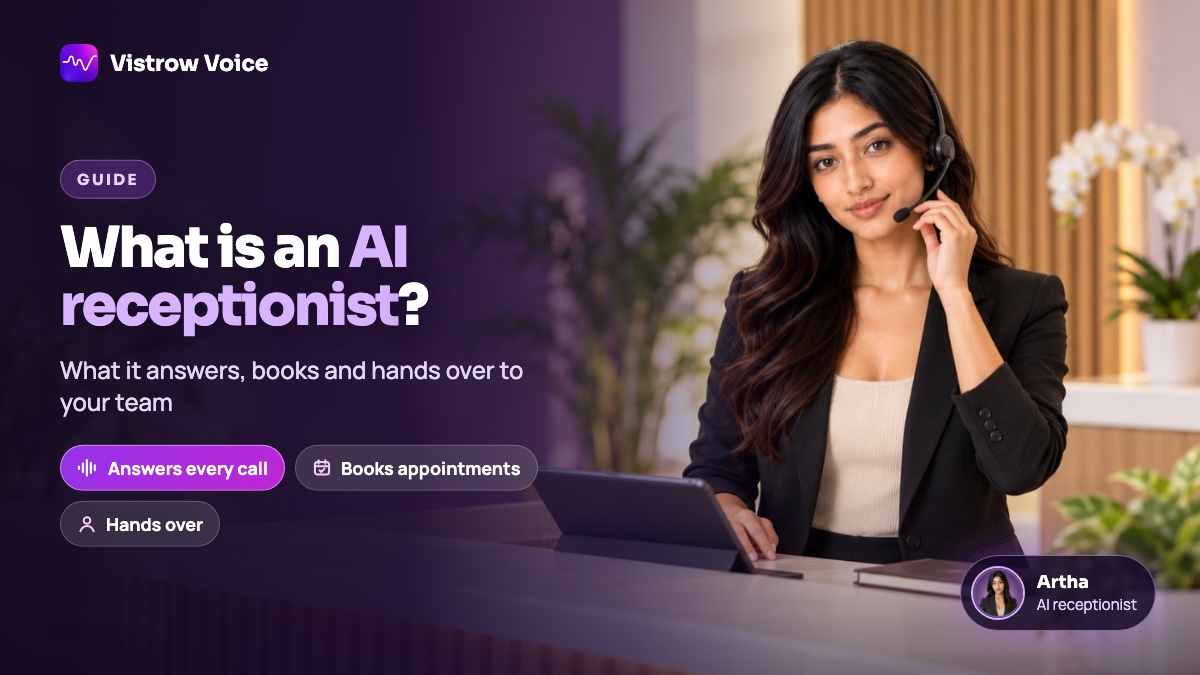
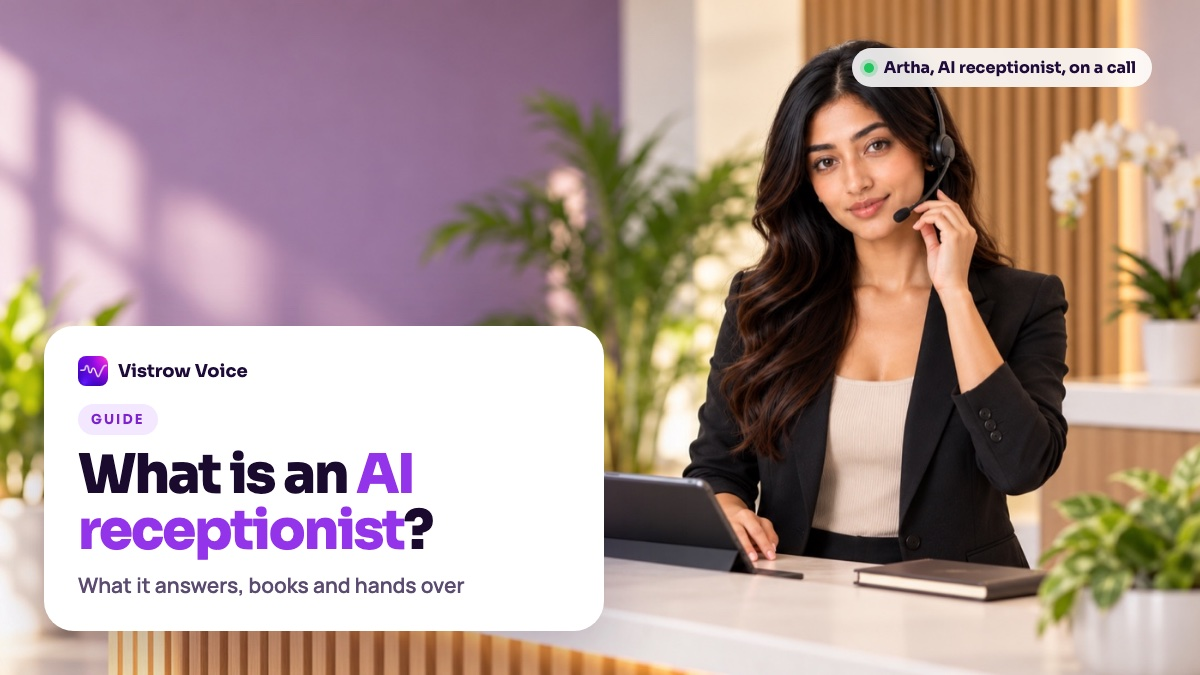
Blog covers 3-6 redesigned as distinct layouts (light editorial, before/after split, checklist board, phone mock-up); guide lists 7 layouts, no two in a row
Owner 21 Oct: the first set all looked like one template.

diff --git a/web-demo/scripts/blog-covers/04-ai-ivr-replacing-phone-menus-with-conversation.html b/web-demo/scripts/blog-covers/04-ai-ivr-replacing-phone-menus-with-conversation.html
@@ -1,3 +1,18 @@
-<!doctype html><html lang="en"><head><meta charset="utf-8"><title>Cover: AI IVR</title><link rel="stylesheet" href="cover.css"><style>.person{background-image:url(people/caller-man-phone.jpg)} .text{width:470px} .c1{left:530px;top:150px;width:320px;display:flex;align-items:center;gap:14px;opacity:.9} .c1 .x{position:absolute;left:18px;top:12px;width:48px;height:48px} .c1 p{font-size:17px;color:#c9b8e2} .c1 b{display:block;font-family:Sora;font-size:20px;color:#fff;text-decoration:line-through;text-decoration-color:rgba(240,171,252,.85);text-decoration-thickness:2px} .arrow{position:absolute;z-index:4;left:672px;top:250px;font-family:Sora;font-size:40px;color:#d8b4fe} .c2{left:530px;top:318px;width:390px;display:flex;align-items:center;gap:14px} .c2 img{width:58px;height:58px;border-radius:50%;border:2px solid #f5d0fe;object-fit:cover} .c2 b{display:block;font-family:Sora;font-size:22px;white-space:nowrap} .c2 span{font-size:16px;color:#f3e8ff} .c3{left:530px;top:452px;width:330px;display:flex;align-items:center;gap:12px;font-weight:700;font-size:18px}</style></head><body>
-<div class="person"></div><div class="brand"><img src="../../src/assets/vistrow-mark.png" alt=""> Vistrow Voice</div>
-<div class="text"><span class="pill">Guide</span><h1>AI IVR: from <em>“press 1”</em> to <em>“how can I help?”</em></h1><p class="sub">Replace the phone menu with a conversation</p></div><div class="card c1"><svg width="40" height="40" viewBox="0 0 46 46" fill="#c9b8e2"><circle cx="9" cy="8" r="5"/><circle cx="23" cy="8" r="5"/><circle cx="37" cy="8" r="5"/><circle cx="9" cy="23" r="5"/><circle cx="23" cy="23" r="5"/><circle cx="37" cy="23" r="5"/><circle cx="9" cy="38" r="5"/><circle cx="23" cy="38" r="5"/><circle cx="37" cy="38" r="5"/></svg><div><b>Press 1, press 2...</b><p>Old phone menu</p></div></div><div class="arrow">↓</div><div class="card hl c2"><img src="people/artha-avatar.webp" alt=""><div><b>“How can I help you?”</b><span>Artha, AI IVR</span></div></div><div class="card c3"><svg width="20" height="20" viewBox="0 0 24 24" fill="none" stroke="#f5d0fe" stroke-width="2.4" stroke-linecap="round"><rect x="3.5" y="5" width="17" height="15" rx="3"/><path d="M8 3v4M16 3v4M3.5 10h17M9 15l2 2 4-4"/></svg> Answered, booked or transferred</div></body></html>
+<!doctype html><html lang="en"><head><meta charset="utf-8"><title>Cover 4 split before after</title><style>@font-face{font-family:Sora;src:url(../../public/fonts/sora-latin.woff2) format('woff2');font-weight:100 900}
+@font-face{font-family:Manrope;src:url(../../public/fonts/manrope-latin.woff2) format('woff2');font-weight:200 800}
+*{box-sizing:border-box;margin:0;padding:0} html,body{width:1200px;height:675px;overflow:hidden} body{font-family:Manrope,sans-serif;position:relative}
+.left{position:absolute;left:0;top:0;width:600px;height:675px;background:url(people/caller-frustrated-menu.jpg) center 30%/cover;filter:grayscale(1) brightness(.75) contrast(1.05)}
+.right{position:absolute;right:0;top:0;width:600px;height:675px;background:radial-gradient(520px 420px at 60% 30%,rgba(168,85,247,.55),transparent 65%),linear-gradient(135deg,#1e0b3a,#3b0f6b)}
+.artha{position:absolute;right:20px;bottom:0;width:460px;height:610px;background:url(people/artha-headset.jpg) center top/cover;-webkit-mask-image:radial-gradient(ellipse 62% 78% at 50% 42%,#000 58%,transparent 100%)}
+.top{position:absolute;left:0;right:0;top:0;height:170px;background:linear-gradient(180deg,rgba(10,4,18,.85),transparent);z-index:2}
+.brand{position:absolute;z-index:3;top:34px;left:44px;display:flex;align-items:center;gap:10px;font-family:Sora;font-weight:700;font-size:19px;color:#fff} .brand img{width:32px;height:32px;border-radius:8px}
+h1{position:absolute;z-index:3;top:28px;left:0;right:0;text-align:center;font-family:Sora;font-weight:800;font-size:40px;letter-spacing:-.03em;color:#fff}
+h1 em{font-style:normal;color:#d8b4fe}
+.label{position:absolute;z-index:3;top:96px;font-family:Sora;font-weight:800;font-size:14px;letter-spacing:.18em;padding:7px 14px;border-radius:999px}
+.l1{left:44px;color:#e5e7eb;background:rgba(55,65,81,.85)} .l2{right:44px;color:#3b0764;background:#f5d0fe}
+.b1{position:absolute;z-index:3;left:44px;bottom:48px;width:420px;background:rgba(17,24,39,.88);border:1px solid rgba(255,255,255,.15);border-radius:22px;padding:18px 20px;display:flex;gap:16px;align-items:center;color:#d1d5db}
+.b1 b{display:block;font-family:Sora;font-size:21px;color:#fff;margin-bottom:4px} .b1 span{font-size:16px}
+.b2{position:absolute;z-index:3;left:640px;bottom:60px;width:300px;background:#fff;border-radius:22px 22px 22px 6px;padding:18px 20px;color:#1a0b2e;box-shadow:0 20px 60px rgba(0,0,0,.35)}
+.b2 b{display:block;font-family:Sora;font-size:24px;line-height:1.15} .b2 span{display:block;margin-top:6px;font-size:15px;color:#7e22ce;font-weight:700}
+.vs{position:absolute;z-index:4;left:570px;top:316px;width:60px;height:60px;border-radius:50%;background:linear-gradient(135deg,#9333ea,#c026d3);display:grid;place-items:center;color:#fff;font-family:Sora;font-size:28px;box-shadow:0 0 0 6px rgba(255,255,255,.15)}
+</style></head><body><div class="left"></div><div class="right"></div><div class="artha"></div><div class="top"></div><div class="brand"><img src="../../src/assets/vistrow-mark.png" alt=""> Vistrow Voice</div><h1>AI IVR: <em>from menu to conversation</em></h1><span class="label l1">BEFORE</span><span class="label l2">AFTER</span><div class="b1"><svg width="34" height="34" viewBox="0 0 46 46" fill="#9ca3af"><circle cx="9" cy="8" r="5"/><circle cx="23" cy="8" r="5"/><circle cx="37" cy="8" r="5"/><circle cx="9" cy="23" r="5"/><circle cx="23" cy="23" r="5"/><circle cx="37" cy="23" r="5"/><circle cx="9" cy="38" r="5"/><circle cx="23" cy="38" r="5"/><circle cx="37" cy="38" r="5"/></svg><div><b>"Press 1 for sales, press 2..."</b><span>Callers wait, guess and hang up</span></div></div><div class="vs">→</div><div class="b2"><b>"Hi, how can I help you today?"</b><span>Artha answers in plain speech</span></div></body></html>

diff --git a/web-demo/scripts/blog-covers/05-ai-voice-agent-platform-buyers-checklist.html b/web-demo/scripts/blog-covers/05-ai-voice-agent-platform-buyers-checklist.html
@@ -1,3 +1,16 @@
-<!doctype html><html lang="en"><head><meta charset="utf-8"><title>Cover: AI voice agent platform checklist</title><link rel="stylesheet" href="cover.css"><style>.scene{background-image:url(people/colleagues-review-scene.jpg);background-size:135%;background-position:78% 40%} .chips{max-width:470px}</style></head><body>
-<div class="scene"></div><div class="shade"></div><div class="brand"><img src="../../src/assets/vistrow-mark.png" alt=""> Vistrow Voice</div>
-<div class="text"><span class="pill">Checklist</span><h1>AI voice agent <em>platform checklist</em></h1><p class="sub">What to test before you buy</p><div class="chips"><span class="chip"><svg width="20" height="20" viewBox="0 0 24 24" fill="none" stroke="#f5d0fe" stroke-width="3" stroke-linecap="round" stroke-linejoin="round"><path d="M5 12.5l4.5 4.5L19 7.5"/></svg> Languages</span><span class="chip"><svg width="20" height="20" viewBox="0 0 24 24" fill="none" stroke="#f5d0fe" stroke-width="3" stroke-linecap="round" stroke-linejoin="round"><path d="M5 12.5l4.5 4.5L19 7.5"/></svg> Speed on real calls</span><span class="chip"><svg width="20" height="20" viewBox="0 0 24 24" fill="none" stroke="#f5d0fe" stroke-width="3" stroke-linecap="round" stroke-linejoin="round"><path d="M5 12.5l4.5 4.5L19 7.5"/></svg> Approved answers</span><span class="chip"><svg width="20" height="20" viewBox="0 0 24 24" fill="none" stroke="#f5d0fe" stroke-width="3" stroke-linecap="round" stroke-linejoin="round"><path d="M5 12.5l4.5 4.5L19 7.5"/></svg> Handoffs</span><span class="chip hl"><svg width="20" height="20" viewBox="0 0 24 24" fill="none" stroke="#f5d0fe" stroke-width="3" stroke-linecap="round" stroke-linejoin="round"><path d="M5 12.5l4.5 4.5L19 7.5"/></svg> Cost and controls</span></div></div></body></html>
+<!doctype html><html lang="en"><head><meta charset="utf-8"><title>Cover 5 checklist board</title><style>@font-face{font-family:Sora;src:url(../../public/fonts/sora-latin.woff2) format('woff2');font-weight:100 900}
+@font-face{font-family:Manrope;src:url(../../public/fonts/manrope-latin.woff2) format('woff2');font-weight:200 800}
+*{box-sizing:border-box;margin:0;padding:0} html,body{width:1200px;height:675px;overflow:hidden} body{font-family:Manrope,sans-serif;position:relative}
+body{background:linear-gradient(135deg,#faf5ff 0%,#f3e8ff 60%,#ede9fe 100%)}
+.grid{position:absolute;inset:0;background-image:linear-gradient(rgba(147,51,234,.07) 1px,transparent 1px),linear-gradient(90deg,rgba(147,51,234,.07) 1px,transparent 1px);background-size:40px 40px}
+.brand{position:absolute;top:44px;left:60px;display:flex;align-items:center;gap:10px;font-family:Sora;font-weight:700;font-size:20px;color:#1e0b3a} .brand img{width:34px;height:34px;border-radius:9px}
+.text{position:absolute;left:60px;top:150px;width:470px}
+.pill{display:inline-block;font-family:Sora;font-weight:700;font-size:14px;letter-spacing:.16em;color:#fff;background:#9333ea;padding:8px 14px;border-radius:999px}
+h1{font-family:Sora;font-weight:800;font-size:58px;line-height:1.03;letter-spacing:-.035em;color:#1a0b2e;margin-top:18px} h1 em{font-style:normal;color:#9333ea}
+p{margin-top:16px;font-size:23px;color:#5b4b70;font-weight:600}
+.board{position:absolute;left:600px;top:120px;width:520px;background:#fff;border-radius:28px;padding:34px 34px 30px;box-shadow:0 30px 70px rgba(88,28,135,.22);transform:rotate(-2deg)}
+.board h2{font-family:Sora;font-size:16px;letter-spacing:.16em;color:#7e22ce} ul{list-style:none;margin-top:16px}
+li{display:flex;align-items:center;gap:14px;font-size:22px;font-weight:700;color:#1a0b2e;padding:12px 0;border-bottom:1px dashed #e9d5ff} li:last-child{border:0}
+.t{width:32px;height:32px;border-radius:50%;background:linear-gradient(135deg,#9333ea,#c026d3);display:grid;place-items:center;flex:none}
+.face{position:absolute;right:46px;top:34px;width:150px;height:150px;border-radius:50%;background:url(people/colleagues-review-scene.jpg) 64% 22%/360% no-repeat;border:6px solid #fff;box-shadow:0 0 0 4px #c084fc,0 20px 40px rgba(88,28,135,.25)}
+</style></head><body><div class="grid"></div><div class="brand"><img src="../../src/assets/vistrow-mark.png" alt=""> Vistrow Voice</div><div class="text"><span class="pill">CHECKLIST</span><h1>AI voice agent <em>platform checklist</em></h1><p>What to test before you buy</p></div><div class="board"><h2>BEFORE YOU SIGN</h2><ul><li><span class="t"><svg width="18" height="18" viewBox="0 0 24 24" fill="none" stroke="#fff" stroke-width="3.2" stroke-linecap="round" stroke-linejoin="round"><path d="M5 12.5l4.5 4.5L19 7.5"/></svg></span>Languages your callers speak</li><li><span class="t"><svg width="18" height="18" viewBox="0 0 24 24" fill="none" stroke="#fff" stroke-width="3.2" stroke-linecap="round" stroke-linejoin="round"><path d="M5 12.5l4.5 4.5L19 7.5"/></svg></span>Speed on real phone calls</li><li><span class="t"><svg width="18" height="18" viewBox="0 0 24 24" fill="none" stroke="#fff" stroke-width="3.2" stroke-linecap="round" stroke-linejoin="round"><path d="M5 12.5l4.5 4.5L19 7.5"/></svg></span>Answers from approved facts</li><li><span class="t"><svg width="18" height="18" viewBox="0 0 24 24" fill="none" stroke="#fff" stroke-width="3.2" stroke-linecap="round" stroke-linejoin="round"><path d="M5 12.5l4.5 4.5L19 7.5"/></svg></span>Clean handoffs to your team</li><li><span class="t"><svg width="18" height="18" viewBox="0 0 24 24" fill="none" stroke="#fff" stroke-width="3.2" stroke-linecap="round" stroke-linejoin="round"><path d="M5 12.5l4.5 4.5L19 7.5"/></svg></span>Cost, controls and testing</li></ul></div><div class="face"></div></body></html>

diff --git a/web-demo/scripts/blog-covers/06-ai-receptionist-for-clinics.html b/web-demo/scripts/blog-covers/06-ai-receptionist-for-clinics.html
@@ -1,3 +1,19 @@
-<!doctype html><html lang="en"><head><meta charset="utf-8"><title>Cover: AI receptionist for clinics</title><link rel="stylesheet" href="cover.css"><style>.scene{background-image:url(people/clinic-waiting-caller-scene.jpg)} .badge{right:44px;top:44px}</style></head><body>
-<div class="scene flip"></div><div class="shade"></div><div class="brand"><img src="../../src/assets/vistrow-mark.png" alt=""> Vistrow Voice</div>
-<div class="text"><span class="pill">Industry</span><h1>AI receptionist for <em>clinics</em></h1><p class="sub">Bookings, reminders and safe handoffs to staff</p><div class="chips"><span class="chip hl"><svg width="20" height="20" viewBox="0 0 24 24" fill="none" stroke="#f5d0fe" stroke-width="2.4" stroke-linecap="round"><rect x="3.5" y="5" width="17" height="15" rx="3"/><path d="M8 3v4M16 3v4M3.5 10h17M9 15l2 2 4-4"/></svg> Bookings</span><span class="chip"><svg width="20" height="20" viewBox="0 0 24 24" fill="none" stroke="#f5d0fe" stroke-width="2.4" stroke-linecap="round"><path d="M6 16V11a6 6 0 0 1 12 0v5l2 2H4z"/><path d="M10 21h4"/></svg> Reminders</span><span class="chip"><svg width="20" height="20" viewBox="0 0 24 24" fill="none" stroke="#f5d0fe" stroke-width="2.4" stroke-linecap="round"><circle cx="12" cy="8" r="4"/><path d="M4 21c1.5-4.5 4.5-6.5 8-6.5s6.5 2 8 6.5"/></svg> Handoffs to staff</span></div></div><div class="badge"><img src="people/artha-avatar.webp" alt=""><div><b>Artha</b><span>Answering patient calls</span></div></div></body></html>
+<!doctype html><html lang="en"><head><meta charset="utf-8"><title>Cover 6 phone mock</title><style>@font-face{font-family:Sora;src:url(../../public/fonts/sora-latin.woff2) format('woff2');font-weight:100 900}
+@font-face{font-family:Manrope;src:url(../../public/fonts/manrope-latin.woff2) format('woff2');font-weight:200 800}
+*{box-sizing:border-box;margin:0;padding:0} html,body{width:1200px;height:675px;overflow:hidden} body{font-family:Manrope,sans-serif;position:relative}
+.photo{position:absolute;inset:0;background:url(people/clinic-waiting-caller-scene.jpg) 30% center/cover}
+.shade{position:absolute;inset:0;background:linear-gradient(0deg,rgba(26,8,40,.92) 0%,rgba(26,8,40,.55) 38%,transparent 62%),linear-gradient(90deg,transparent 55%,rgba(26,8,40,.35) 100%)}
+.brand{position:absolute;top:40px;left:52px;display:flex;align-items:center;gap:10px;font-family:Sora;font-weight:700;font-size:19px;color:#fff;background:rgba(26,8,40,.55);padding:8px 14px 8px 8px;border-radius:999px} .brand img{width:30px;height:30px;border-radius:8px}
+.text{position:absolute;left:52px;bottom:48px;width:640px;color:#fff}
+.pill{display:inline-block;font-family:Sora;font-weight:700;font-size:13px;letter-spacing:.16em;color:#fff;background:rgba(147,51,234,.9);padding:7px 13px;border-radius:999px}
+h1{font-family:Sora;font-weight:800;font-size:56px;line-height:1.03;letter-spacing:-.035em;margin-top:14px} h1 em{font-style:normal;color:#f0abfc}
+p{margin-top:10px;font-size:22px;font-weight:600;color:#f3e8ff}
+.phone{position:absolute;right:70px;top:46px;width:290px;height:585px;border-radius:44px;background:#0b0614;padding:12px;box-shadow:0 40px 90px rgba(0,0,0,.5),0 0 0 2px rgba(255,255,255,.12)}
+.screen{width:100%;height:100%;border-radius:34px;background:linear-gradient(180deg,#2a0f52,#12061f);color:#fff;padding:46px 22px 22px;text-align:center;position:relative}
+.screen img{width:96px;height:96px;border-radius:50%;border:3px solid #d8b4fe;object-fit:cover}
+.screen h3{font-family:Sora;font-size:24px;margin-top:12px} .screen .r{font-size:15px;color:#e9d5ff;margin-top:2px} .screen .s{font-size:14px;color:#a78bfa;margin-top:12px}
+.wv{margin-top:18px}
+.ok{position:absolute;left:16px;right:16px;bottom:22px;background:#fff;color:#1a0b2e;border-radius:20px;padding:16px;text-align:left}
+.ok b{display:flex;align-items:center;gap:8px;font-family:Sora;font-size:17px} .ok .c{width:24px;height:24px;border-radius:50%;background:#22c55e;display:grid;place-items:center}
+.ok span{display:block;font-size:14px;color:#5b4b70;margin-top:6px;font-weight:600}
+</style></head><body><div class="photo"></div><div class="shade"></div><div class="brand"><img src="../../src/assets/vistrow-mark.png" alt=""> Vistrow Voice</div><div class="text"><span class="pill">INDUSTRY</span><h1>AI receptionist for <em>clinics</em></h1><p>Bookings, reminders and safe handoffs to staff</p></div><div class="phone"><div class="screen"><img src="people/artha-avatar.webp" alt=""><h3>Artha</h3><div class="r">AI receptionist</div><div class="s">On call with a patient</div><div class="wv"><svg width="70" height="30" viewBox="0 0 70 30" fill="#a855f7"><rect x="0" y="11" width="5" height="8" rx="2.5"/><rect x="9" y="6" width="5" height="18" rx="2.5"/><rect x="18" y="0" width="5" height="30" rx="2.5"/><rect x="27" y="5" width="5" height="20" rx="2.5"/><rect x="36" y="9" width="5" height="12" rx="2.5"/><rect x="45" y="3" width="5" height="24" rx="2.5"/><rect x="54" y="8" width="5" height="14" rx="2.5"/><rect x="63" y="11" width="5" height="8" rx="2.5"/></svg></div><div class="ok"><b><span class="c"><svg width="14" height="14" viewBox="0 0 24 24" fill="none" stroke="#fff" stroke-width="3.5" stroke-linecap="round" stroke-linejoin="round"><path d="M5 12.5l4.5 4.5L19 7.5"/></svg></span>Appointment booked</b><span>Tue, 4:00 pm · reminder set</span></div></div></div></body></html>

diff --git a/web-demo/scripts/blog-covers/03-what-is-an-ai-receptionist.html b/web-demo/scripts/blog-covers/03-what-is-an-ai-receptionist.html
@@ -1,3 +1,12 @@
-<!doctype html><html lang="en"><head><meta charset="utf-8"><title>Cover: What is an AI receptionist?</title><link rel="stylesheet" href="cover.css"><style>.scene{background-image:url(people/artha-front-desk-scene.jpg)} .badge{right:44px;bottom:44px}</style></head><body>
-<div class="scene"></div><div class="shade"></div><div class="brand"><img src="../../src/assets/vistrow-mark.png" alt=""> Vistrow Voice</div>
-<div class="text"><span class="pill">Guide</span><h1>What is an <em>AI receptionist</em>?</h1><p class="sub">What it answers, books and hands over to your team</p><div class="chips"><span class="chip hl"><svg width="22" height="20" viewBox="0 0 50 44" fill="#fff"><rect x="2" y="17" width="5" height="10" rx="2.5"/><rect x="11" y="10" width="5" height="24" rx="2.5"/><rect x="20" y="2" width="5" height="40" rx="2.5"/><rect x="29" y="8" width="5" height="28" rx="2.5"/><rect x="38" y="14" width="5" height="16" rx="2.5"/></svg> Answers every call</span><span class="chip"><svg width="20" height="20" viewBox="0 0 24 24" fill="none" stroke="#f5d0fe" stroke-width="2.4" stroke-linecap="round"><rect x="3.5" y="5" width="17" height="15" rx="3"/><path d="M8 3v4M16 3v4M3.5 10h17M9 15l2 2 4-4"/></svg> Books appointments</span><span class="chip"><svg width="20" height="20" viewBox="0 0 24 24" fill="none" stroke="#f5d0fe" stroke-width="2.4" stroke-linecap="round"><circle cx="12" cy="8" r="4"/><path d="M4 21c1.5-4.5 4.5-6.5 8-6.5s6.5 2 8 6.5"/></svg> Hands over</span></div></div><div class="badge"><img src="people/artha-avatar.webp" alt=""><div><b>Artha</b><span>AI receptionist</span></div></div></body></html>
+<!doctype html><html lang="en"><head><meta charset="utf-8"><title>Cover 3 light editorial</title><style>@font-face{font-family:Sora;src:url(../../public/fonts/sora-latin.woff2) format('woff2');font-weight:100 900}
+@font-face{font-family:Manrope;src:url(../../public/fonts/manrope-latin.woff2) format('woff2');font-weight:200 800}
+*{box-sizing:border-box;margin:0;padding:0} html,body{width:1200px;height:675px;overflow:hidden} body{font-family:Manrope,sans-serif;position:relative}
+.photo{position:absolute;inset:0;background:url(people/artha-front-desk-scene.jpg) center/cover}
+.card{position:absolute;left:44px;bottom:44px;width:560px;background:#fff;border-radius:30px;padding:30px 34px 32px;box-shadow:0 30px 80px rgba(30,11,58,.28)}
+.brand{display:flex;align-items:center;gap:10px;font-family:Sora;font-weight:700;font-size:18px;color:#1e0b3a} .brand img{width:30px;height:30px;border-radius:8px}
+.pill{display:inline-block;margin-top:18px;font-family:Sora;font-weight:700;font-size:13px;letter-spacing:.16em;color:#7e22ce;background:#f3e8ff;padding:7px 13px;border-radius:999px}
+h1{font-family:Sora;font-weight:800;font-size:54px;line-height:1.04;letter-spacing:-.035em;color:#1a0b2e;margin-top:12px} h1 em{font-style:normal;color:#9333ea}
+p{margin-top:12px;font-size:21px;color:#5b4b70;font-weight:600}
+.tag{position:absolute;right:48px;top:48px;display:flex;align-items:center;gap:10px;background:rgba(255,255,255,.88);backdrop-filter:blur(8px);padding:9px 16px 9px 12px;border-radius:999px;font-family:Sora;font-weight:700;font-size:16px;color:#1e0b3a}
+.dot{width:10px;height:10px;border-radius:50%;background:#22c55e;box-shadow:0 0 0 4px rgba(34,197,94,.25)}
+</style></head><body><div class="photo"></div><div class="tag"><span class="dot"></span>Artha, AI receptionist, on a call</div><div class="card"><div class="brand"><img src="../../src/assets/vistrow-mark.png" alt=""> Vistrow Voice</div><span class="pill">GUIDE</span><h1>What is an <em>AI receptionist</em>?</h1><p>What it answers, books and hands over</p></div></body></html>

diff --git a/docs/SEO-BLOG-COVER-GUIDE.md b/docs/SEO-BLOG-COVER-GUIDE.md
@@ -7,14 +7,21 @@ Owner review, 21 Oct 2026: the first photo-only covers scored about 3.5/10. They
 Approved sample: `web-demo/scripts/blog-covers/02-ai-receptionist-vs-answering-service-vs-ivr.html` with `people/artha-headset.jpg`, rendered to 1200x675.
 
 
-## Two styles (owner, 21 Oct: not every cover should look the same)
+## Layouts (owner, 21 Oct: covers must not all look like one template)
 
-| Style | Look | Use for |
-|---|---|---|
-| **Studio** | Dark brand gradient, a person cut out on the right, topic cards over their shoulder | Comparisons and flows (posts 2 and 4) |
-| **Scene** | A full-width realistic photo of people in a real place, darkened on the left for the headline, topic chips under it, and an "Artha" badge when the AI agent is part of the story | Guides, checklists and industry posts (posts 3, 5 and 6) |
+The first five covers used one skeleton (dark shade on the left, pill, headline, chips) and looked alike in the blog grid. Use these **distinct layouts** instead. Only the logo and a touch of brand purple are shared. **Never use the same layout on two posts in a row**, and vary the mood (dark, light, photo, graphic) across each week.
 
-Shared styles: `web-demo/scripts/blog-covers/cover.css`. Alternate the styles so consecutive posts do not look alike.
+| Layout | Look | Mood | Good for | Example |
+|---|---|---|---|---|
+| **1. Studio comparison** | Dark brand gradient, a person cut out on the right, option cards over their shoulder, the AI option highlighted | Dark, bold | "X vs Y" posts | `02-...html` |
+| **2. Light editorial** | Full bright photo with no dark shade; a white rounded headline card in a bottom corner; a small "on a call" tag on the photo | Light, airy | Definitions and guides | `03-...html` |
+| **3. Before / after split** | Left half greyscale photo of the old way (frustrated caller, keypad menu) with a dark caption card; right half full-colour Artha on purple with a white speech bubble; arrow badge in the middle; headline across the top | Contrast story | Replacing IVR, missed calls, speed to lead, migrations | `04-...html` |
+| **4. Checklist board** | Light lavender background with a faint grid, big headline left, a tilted white checklist card right, the person in a round framed photo | Light, graphic | Checklists, how-tos, compliance | `05-...html` |
+| **5. Phone mock-up** | Warm full-bleed scene photo, a smartphone screen showing Artha on a call and an outcome card ("Appointment booked"), headline bottom-left over a bottom gradient | Product in action | Industry posts, bookings, reminders | `06-...html` |
+| **6. Language greeting** (to build) | The greeting in its own script, very large, over a local scene photo; small Artha badge | Local, cultural | Language posts | |
+| **7. Quote / stat card** (to build) | One short, sourced fact or customer-style question in very large type on a solid colour, with a small photo | Typographic | Data-led and myth-busting posts | |
+
+Each cover HTML carries its own CSS (fonts from `web-demo/public/fonts`). `cover.css` holds the shared studio and scene pieces.
 
 ## Rules
 
